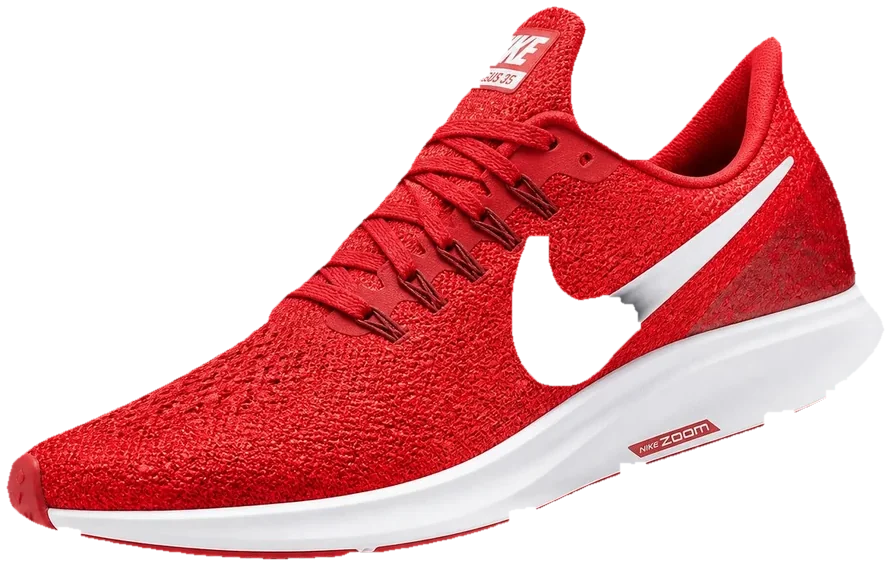
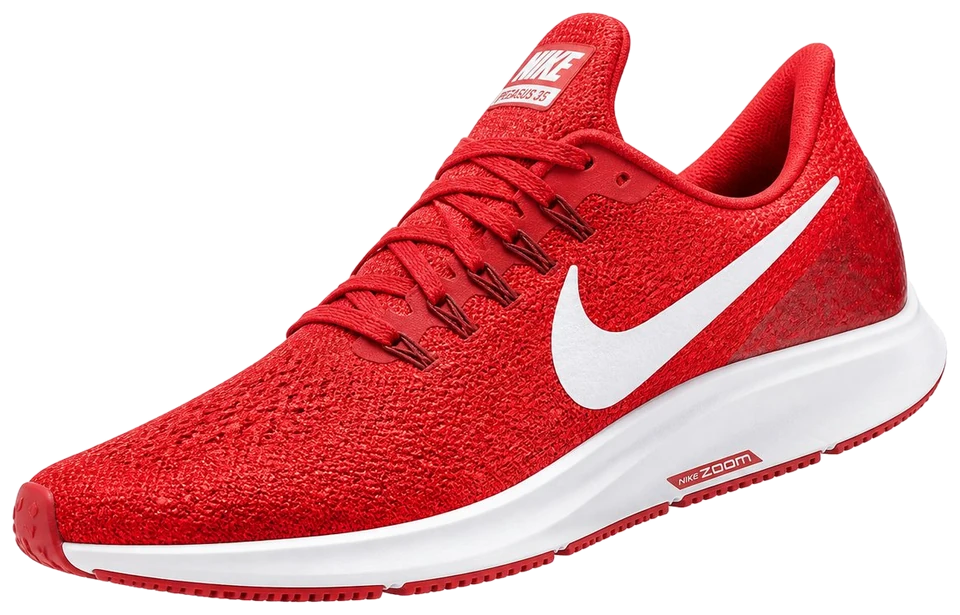
Preserve white shoe material in cutouts
Stop keying out opaque white leather/midsoles as fringe. Rebuild
catalog with isnet masks, hole-fill, largest-component cleanup, and
mild dilation only on light shoes so tongues and soles stay intact.

Changed region(s): [[0.0, 0.0, 0.9697, 0.9912], [0.5758, 0.6307, 0.9697, 0.9011], [0.9697, 0.6007, 1.0, 0.6307]]

diff --git a/redesigns/nike/styles.css b/redesigns/nike/styles.css
@@ -291,9 +291,7 @@ body[data-theme-ink="dark"] .seg {
   width: 100%;
   height: 250px;
   object-fit: contain;
-  filter:
-    drop-shadow(0 0 0.55px rgba(40, 22, 28, 0.45))
-    drop-shadow(0 28px 34px rgba(20, 10, 30, 0.45));
+  filter: drop-shadow(0 26px 32px rgba(20, 10, 30, 0.42));
   transform: rotate(-12deg) translateY(-6px);
   transition: transform 0.55s var(--ease);
   animation: floatY 4.5s ease-in-out infinite;
@@ -442,9 +440,7 @@ body[data-theme-ink="dark"] .ghost-name {
   max-height: 420px;
   object-fit: contain;
   background: transparent;
-  filter:
-    drop-shadow(0 0 0.55px rgba(40, 22, 28, 0.45))
-    drop-shadow(0 36px 48px rgba(20, 10, 30, 0.5));
+  filter: drop-shadow(0 34px 44px rgba(20, 10, 30, 0.48));
   transform: rotate(-12deg);
   animation: floatShoe 5s ease-in-out infinite;
   transition: opacity 0.35s ease, transform 0.55s var(--ease);

diff --git a/redesigns/nike/index.html b/redesigns/nike/index.html
@@ -17,7 +17,7 @@
   <link rel="preconnect" href="https://fonts.googleapis.com">
   <link rel="preconnect" href="https://fonts.gstatic.com" crossorigin>
   <link href="https://fonts.googleapis.com/css2?family=Syne:wght@600;700;800&family=Manrope:wght@400;500;600;700&display=swap" rel="stylesheet">
-  <link rel="stylesheet" href="styles.css?v=20260812-cutout5">
+  <link rel="stylesheet" href="styles.css?v=20260812-cutout6">
 </head>
 <body>
   <a class="skip" href="#stage">Skip to content</a>
@@ -117,6 +117,6 @@
     <p>Experiment by <a href="../../">Vulcet</a> · Kinetic Clarity · <a href="../">All redesigns</a></p>
   </footer>
 
-  <script src="app.js?v=20260812-cutout5"></script>
+  <script src="app.js?v=20260812-cutout6"></script>
 </body>
 </html>
